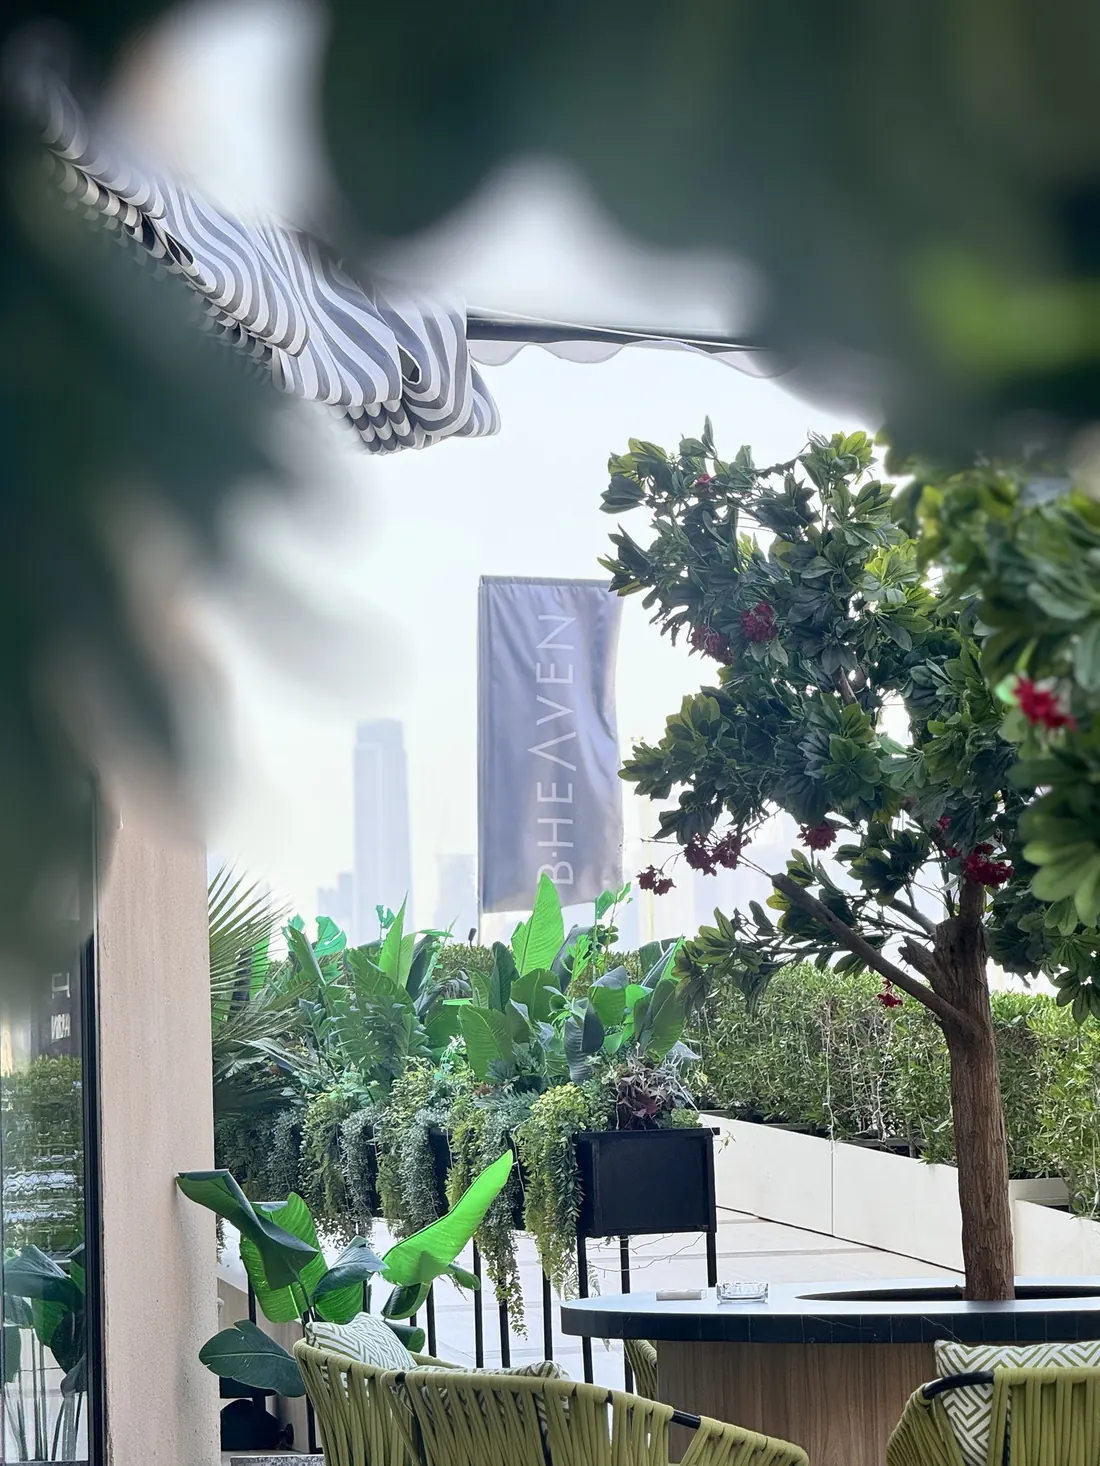
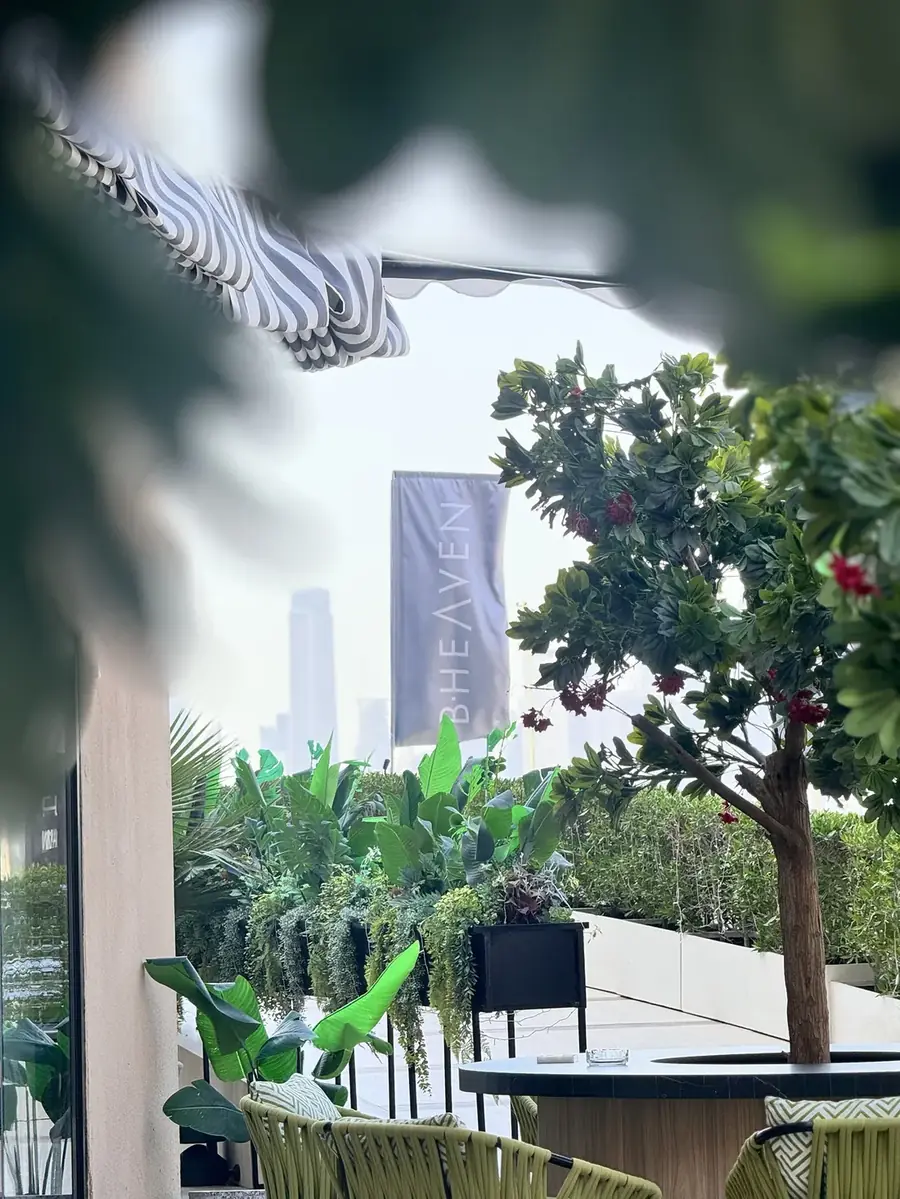
Rooftop gallery: lighter photos and auto-retry if a photo fails to load
Claude-Session: https://claude.ai/code/session_01PZ6CUfmcjPhQqa5iuzx3GZ

diff --git a/index.html b/index.html
@@ -404,9 +404,9 @@ el.textContent=JSON.stringify(o)}catch(e){}})();</script>
     </div>
     <div class="rg-stage"><div class="rg-grid" id="rgGrid">
       <figure class="rg-t rg-a"><img src="/BHVNterrace-1.webp" alt="Rooftop terrace at B·Heaven with a green pergola, pale blue sofas and the Dubai skyline" loading="lazy" decoding="async"><figcaption class="rg-cap"><b>01</b>Terrace</figcaption></figure>
-      <figure class="rg-t rg-b"><img src="/rooftop-night.webp" alt="The B·Heaven dome pavilion and glowing sign reflected in the pool at night" style="object-position:50% 46%" loading="lazy" decoding="async"><figcaption class="rg-cap"><b>02</b>Dome at night</figcaption></figure>
+      <figure class="rg-t rg-b"><img src="/rooftop-night.webp?v=2" alt="The B·Heaven dome pavilion and glowing sign reflected in the pool at night" style="object-position:50% 46%" loading="lazy" decoding="async"><figcaption class="rg-cap"><b>02</b>Dome at night</figcaption></figure>
       <figure class="rg-t rg-c"><img src="/restaurant-lounge.webp" alt="Indoor dining lounge at B·Heaven, Barceló Al Jaddaf" loading="lazy" decoding="async"><figcaption class="rg-cap"><b>03</b>Lounge</figcaption></figure>
-      <figure class="rg-t rg-d"><img src="/rooftop-flag.webp" alt="B·Heaven flag and garden terrace with the Dubai skyline behind" style="object-position:50% 50%" loading="lazy" decoding="async"><figcaption class="rg-cap"><b>04</b>Garden terrace</figcaption></figure>
+      <figure class="rg-t rg-d"><img src="/rooftop-flag.webp?v=2" alt="B·Heaven flag and garden terrace with the Dubai skyline behind" style="object-position:50% 50%" loading="lazy" decoding="async"><figcaption class="rg-cap"><b>04</b>Garden terrace</figcaption></figure>
       <figure class="rg-t rg-e"><img src="/bar-counter.webp" alt="The bar at B·Heaven rooftop lounge" loading="lazy" decoding="async"><figcaption class="rg-cap"><b>05</b>Bar</figcaption></figure>
     </div></div>
   </div>
@@ -614,7 +614,7 @@ el.textContent=JSON.stringify(o)}catch(e){}})();</script>
 
 <script>window.__noBand2 = 1</script>
 <script src="content.js"></script>
-<script src="rooftop-gallery.js?v=8" defer></script>
+<script src="rooftop-gallery.js?v=9" defer></script>
 <script>if (!document.getElementById('bandWa')) document.body.insertAdjacentHTML('beforeend', '<a id="bandWa" hidden></a>')</script>
 <script src="main.js"></script>
 <script src="home-extras.js" defer></script>

diff --git a/rooftop-gallery.js b/rooftop-gallery.js
@@ -83,4 +83,12 @@
     new IntersectionObserver(function (es) { visible = es[0].isIntersecting; }, { rootMargin: '200px 0px' }).observe(grid);
   }
   /* photos are fixed: no automatic swapping (start() intentionally not called) */
+
+  /* if a photo ever fails to load (patchy mobile network), quietly retry so no broken icon is left */
+  Array.prototype.forEach.call(grid.querySelectorAll('img'), function (im) {
+    var base = im.getAttribute('src'), tries = 0;
+    function retry() { if (tries++ < 4) setTimeout(function () { im.src = base + (base.indexOf('?') < 0 ? '?' : '&') + 'r=' + tries; }, 700 * tries); }
+    im.addEventListener('error', retry);
+    if (im.complete && im.naturalWidth === 0 && im.getAttribute('src')) retry();
+  });
 })();

diff --git a/sw.js b/sw.js
@@ -4,7 +4,7 @@
    - Dish and drink photos: cache first (the hashed .webp files never change).
    - Fonts and the other images: served from cache, refreshed in the background.
    - /api, /admin and anything that is not a GET are never touched. */
-const VERSION = 'v27';
+const VERSION = 'v28';
 const PAGES = 'bh-pages-' + VERSION;
 const IMAGES = 'bh-img-' + VERSION;
 const STATIC = 'bh-static-' + VERSION;
